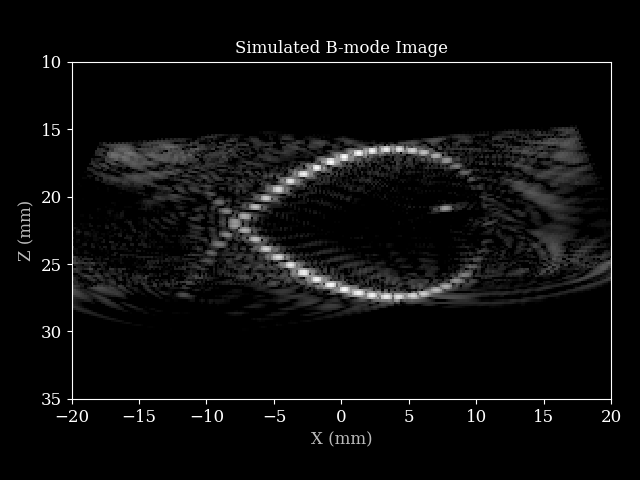
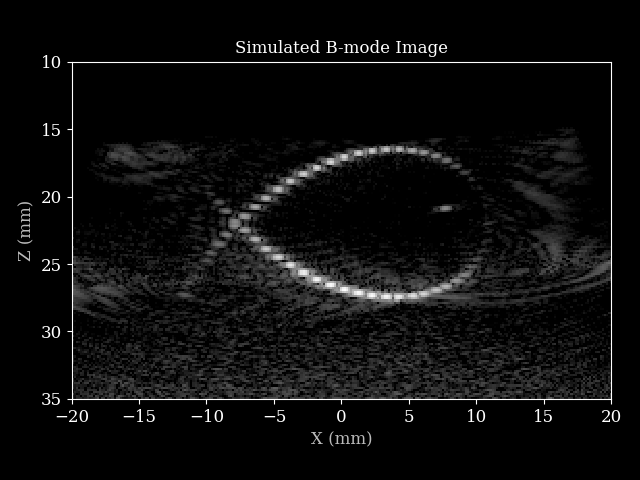
added noise and tcg options to simulator

diff --git a/zea/simulator.py b/zea/simulator.py
@@ -44,6 +44,7 @@ more in depth example see the notebook: :doc:`../notebooks/data/zea_simulation_e
 
 """
 
+import keras
 import numpy as np
 from keras import ops
 
@@ -72,6 +73,9 @@ def simulate_rf(
     elevation_lens=False,
     element_height=None,
     max_chunk_gb=10.0,
+    noise_level_db=-50.0,
+    tgc_max_db=50.0,
+    noise_seed=0,
 ):
     """
     Simulates RF data for a given set of scatterers.
@@ -101,6 +105,9 @@ def simulate_rf(
             elevation directivity and the elevation slab. If None, defaults to element_width.
         max_chunk_gb (float): Unused here; accepted so :func:`simulate_rf` and
             :func:`zea.simulator_time_domain.simulate_rf_td` share a call signature.
+        noise_level_db (float): Electronic noise level relative to the noiseless RF maximum.
+        tgc_max_db (float): Time gain compensation at the last axial sample.
+        noise_seed (int): Stateless seed for the noise, varied across transmit batches.
 
     Returns:
         rf_data (array-like): The simulated RF data of shape (n_tx, n_ax, n_el, 1).
@@ -207,6 +214,44 @@ def simulate_rf(
     rf_data = ops.transpose(rf_data, (0, 2, 1))
     rf_data = rf_data[..., None]
     rf_data = rf_data[:, :n_ax, :, :]
+    return apply_receive_chain(rf_data, noise_level_db, tgc_max_db, noise_seed)
+
+
+def apply_receive_chain(
+    rf_data, noise_level_db=-60.0, tgc_max_db=50.0, noise_seed=0, noise_reference=None
+):
+    """Add electronic noise and time gain compensation to noiseless RF.
+
+    Args:
+        rf_data (array-like): Noiseless RF of shape (n_tx, n_ax, n_el, 1).
+        noise_level_db (float): Noise floor below the peak of ``rf_data``.
+        tgc_max_db (float): Gain at the last axial sample.
+        noise_seed (int): Stateless seed for the noise. The same seed gives the same realisation,
+            so vary it across transmit batches. None is treated as 0.
+        noise_reference (float): Reference amplitude for the noise level. If None, defaults to the
+            ``rf_data`` maximum. Pass a fixed reference to avoid the noise level changing per
+            transmit batch.
+
+    Returns:
+        array-like: RF with same shape as ``rf_data``.
+    """
+    dtype = keras.backend.standardize_dtype(rf_data.dtype)
+
+    if noise_level_db is not None and noise_level_db > -float("inf"):
+        if noise_reference is None:
+            noise_reference = ops.max(ops.abs(rf_data))
+        sigma = noise_reference * 10.0 ** (noise_level_db / 20.0)
+        # seed=None would draw from the global generator, which JAX refuses to trace.
+        noise = keras.random.normal(
+            ops.shape(rf_data), dtype=dtype, seed=0 if noise_seed is None else noise_seed
+        )
+        rf_data = rf_data + ops.cast(sigma, dtype) * noise
+
+    if tgc_max_db:
+        n_ax = int(ops.shape(rf_data)[1])
+        ramp = ops.arange(n_ax, dtype=dtype) / max(n_ax - 1, 1)
+        rf_data = rf_data * 10.0 ** (tgc_max_db * ramp / 20.0)[None, :, None, None]
+
     return rf_data
 
 

diff --git a/zea/simulator_time_domain.py b/zea/simulator_time_domain.py
@@ -48,6 +48,7 @@ from zea.simulator import (
     attenuate,
     hann_unnormalized,
     spread,
+    apply_receive_chain,
 )
 
 
@@ -71,6 +72,9 @@ def simulate_rf_td(
     elevation_lens=False,
     element_height=None,
     max_chunk_gb=10.0,
+    noise_level_db=-50.0,
+    tgc_max_db=50.0,
+    noise_seed=0,
 ):
     """Time-domain (splat-and-convolve) RF simulator.
 
@@ -111,6 +115,9 @@ def simulate_rf_td(
             tensors held at once while iterating over scatterers. Scatterers are processed
             in chunks sized to this budget, so peak memory no longer scales with the total
             scatterer count. Must be a static (Python) value, not a traced array.
+        noise_level_db (float): Electronic noise level relative to the noiseless RF maximum.
+        tgc_max_db (float): Time gain compensation at the last axial sample.
+        noise_seed (int): Stateless seed for the noise, varied across transmit batches.
 
     Returns:
         rf_data (array-like): The simulated RF data of shape (n_tx, n_ax, n_el, 1).
@@ -162,7 +169,9 @@ def simulate_rf_td(
 
     parts = [_convolve_pulse_over_channels(spike_map, pulse) for spike_map in spike_maps]
     rf_data = ops.stack(parts, axis=0)
-    return rf_data[..., None]
+    rf_data = rf_data[..., None]
+    rf_data = rf_data[:, :n_ax, :, :]
+    return apply_receive_chain(rf_data, noise_level_db, tgc_max_db, noise_seed)
 
 
 def _simulate_transmit(

diff --git a/zea/ops/ultrasound.py b/zea/ops/ultrasound.py
@@ -54,7 +54,15 @@ class Simulate(Operation):
     """
 
     # Define operation-specific static parameters
-    STATIC_PARAMS = ["n_ax", "apply_lens_correction", "method", "elevation_lens", "max_chunk_gb"]
+    STATIC_PARAMS = [
+        "n_ax",
+        "apply_lens_correction",
+        "method",
+        "elevation_lens",
+        "max_chunk_gb",
+        "center_frequency",
+        "sampling_frequency",
+    ]
     ADD_OUTPUT_KEYS = ["n_ch"]
 
     def __init__(self, **kwargs):
